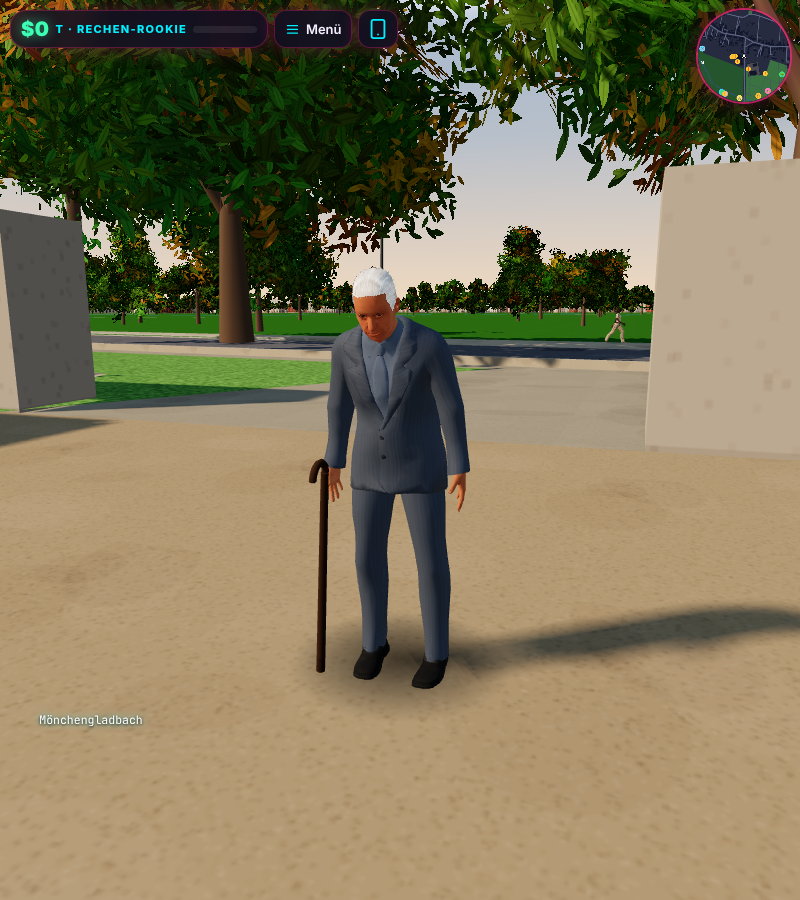
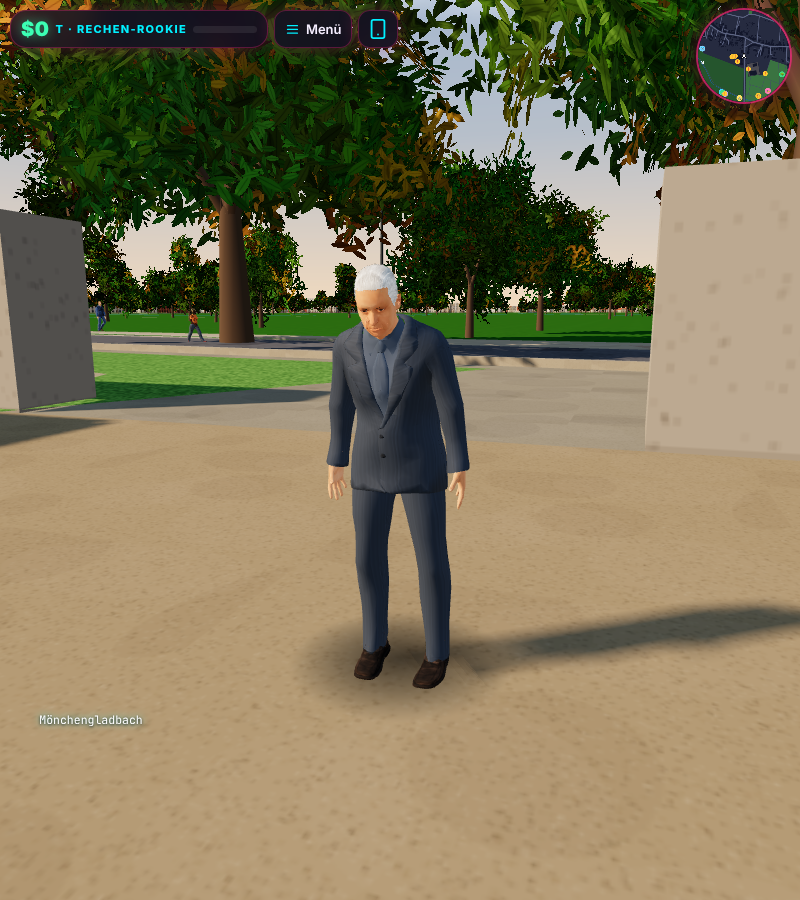
Herr Ballhorn ohne Gehstock, gebeugte Haltung bleibt
Claude-Session: https://claude.ai/code/session_01PMgt5NeoHEoWm9VEyR4L8n

diff --git a/index.html b/index.html
@@ -8543,10 +8543,8 @@ function standGlbUpgrade(){for(const S of STANDS){if(S.glb||!S.p.parent)continue
   if(act.idle){act.idle.play();act.idle.time=Math.random()*act.idle.getClip().duration}
   if(n==="Herr Ballhorn")standAlt(I);
   obj.position.set(S.x,groundY(S.x,S.y)+M.offY,S.y);obj.rotation.y=Math.PI/2-S.a;scene.add(obj);S.p.visible=false;S.glb=I}}
-/* Herr Ballhorn: alter, gebrechlicher Hausmeister – gebeugt, langsam, mit Gehstock */
+/* Herr Ballhorn: alter, gebrechlicher Hausmeister – gebeugt, langsam (ohne Gehstock) */
 function standAlt(I){I.mixer.timeScale=.65;I.alt=[["Spine",.16],["Spine1",.12],["Spine2",.08],["Neck",.14]].map(([n,a])=>[I.obj.getObjectByName(n),a]).filter(b=>b[0]);
-  const g=new THREE.CylinderGeometry(.016,.02,.9,8);g.translate(0,.45,0);const m=new THREE.Mesh(g,new THREE.MeshLambertMaterial({color:new THREE.Color(0x3b2a1e).convertSRGBToLinear()}));m.position.set(-.3,0,.16);m.rotation.set(.12,0,-.1);m.castShadow=true;
-  const k=new THREE.Mesh(new THREE.TorusGeometry(.055,.014,6,12,Math.PI),m.material);k.position.set(0,.9,.05);k.rotation.y=Math.PI/2;m.add(k);I.obj.add(m);
   // Hausmeisterkittel statt Anzug (Jacke grau entsättigt, graublau getönt), ohne Hut – graues Haar sichtbar
   I.obj.traverse(o=>{if(!o.isMesh)return;const mt=o.material,nm=(o.userData.srcMat||mt).name||"";
     if(/^Hut$/i.test(nm)){o.visible=false;return}

diff --git a/pythagoras-city.html b/pythagoras-city.html
@@ -8538,10 +8538,8 @@ function standGlbUpgrade(){for(const S of STANDS){if(S.glb||!S.p.parent)continue
   if(act.idle){act.idle.play();act.idle.time=Math.random()*act.idle.getClip().duration}
   if(n==="Herr Ballhorn")standAlt(I);
   obj.position.set(S.x,groundY(S.x,S.y)+M.offY,S.y);obj.rotation.y=Math.PI/2-S.a;scene.add(obj);S.p.visible=false;S.glb=I}}
-/* Herr Ballhorn: alter, gebrechlicher Hausmeister – gebeugt, langsam, mit Gehstock */
+/* Herr Ballhorn: alter, gebrechlicher Hausmeister – gebeugt, langsam (ohne Gehstock) */
 function standAlt(I){I.mixer.timeScale=.65;I.alt=[["Spine",.16],["Spine1",.12],["Spine2",.08],["Neck",.14]].map(([n,a])=>[I.obj.getObjectByName(n),a]).filter(b=>b[0]);
-  const g=new THREE.CylinderGeometry(.016,.02,.9,8);g.translate(0,.45,0);const m=new THREE.Mesh(g,new THREE.MeshLambertMaterial({color:new THREE.Color(0x3b2a1e).convertSRGBToLinear()}));m.position.set(-.3,0,.16);m.rotation.set(.12,0,-.1);m.castShadow=true;
-  const k=new THREE.Mesh(new THREE.TorusGeometry(.055,.014,6,12,Math.PI),m.material);k.position.set(0,.9,.05);k.rotation.y=Math.PI/2;m.add(k);I.obj.add(m);
   // Hausmeisterkittel statt Anzug (Jacke grau entsättigt, graublau getönt), ohne Hut – graues Haar sichtbar
   I.obj.traverse(o=>{if(!o.isMesh)return;const mt=o.material,nm=(o.userData.srcMat||mt).name||"";
     if(/^Hut$/i.test(nm)){o.visible=false;return}

diff --git a/tools/crowd.js b/tools/crowd.js
@@ -320,10 +320,8 @@ function standGlbUpgrade(){for(const S of STANDS){if(S.glb||!S.p.parent)continue
   if(act.idle){act.idle.play();act.idle.time=Math.random()*act.idle.getClip().duration}
   if(n==="Herr Ballhorn")standAlt(I);
   obj.position.set(S.x,groundY(S.x,S.y)+M.offY,S.y);obj.rotation.y=Math.PI/2-S.a;scene.add(obj);S.p.visible=false;S.glb=I}}
-/* Herr Ballhorn: alter, gebrechlicher Hausmeister – gebeugt, langsam, mit Gehstock */
+/* Herr Ballhorn: alter, gebrechlicher Hausmeister – gebeugt, langsam (ohne Gehstock) */
 function standAlt(I){I.mixer.timeScale=.65;I.alt=[["Spine",.16],["Spine1",.12],["Spine2",.08],["Neck",.14]].map(([n,a])=>[I.obj.getObjectByName(n),a]).filter(b=>b[0]);
-  const g=new THREE.CylinderGeometry(.016,.02,.9,8);g.translate(0,.45,0);const m=new THREE.Mesh(g,new THREE.MeshLambertMaterial({color:new THREE.Color(0x3b2a1e).convertSRGBToLinear()}));m.position.set(-.3,0,.16);m.rotation.set(.12,0,-.1);m.castShadow=true;
-  const k=new THREE.Mesh(new THREE.TorusGeometry(.055,.014,6,12,Math.PI),m.material);k.position.set(0,.9,.05);k.rotation.y=Math.PI/2;m.add(k);I.obj.add(m);
   // Hausmeisterkittel statt Anzug (Jacke grau entsättigt, graublau getönt), ohne Hut – graues Haar sichtbar
   I.obj.traverse(o=>{if(!o.isMesh)return;const mt=o.material,nm=(o.userData.srcMat||mt).name||"";
     if(/^Hut$/i.test(nm)){o.visible=false;return}

diff --git a/karte/STATUS.md b/karte/STATUS.md
@@ -239,4 +239,4 @@ Offen (Stufe 2): Kachelwechsel ohne Neuladen, feine Luftbilder für alle Bezirke
 - Kellerabgang an der Ostseite des Erweiterungsbaus (Foto): Brüstung mit Geländer am Südende offen, 14 Stufen 2,6 m nach unten, Schacht mit Kellertür und vergitterten Kellerfenstern. Boden und Hofbelag dort per Schablonenpuffer ausgespart. Sichtbar, nicht begehbar (Spiel kennt nur ebenen Boden).
 - Fix: Drehung der Schul-Ergänzungen wird jetzt an der Schule gemessen (vorher am Kartenursprung, anderer Abschnitt der Übertragung).
 - Pausenhof: Fußweg der Kartendaten (w291931419), der von Am Torfbend durch Altbau/Klassentrakt auf den Hof lief, entfernt (Passanten liefen durch die Wand); ebenso die Zufahrt w24431367, die durch das weiße Nachbarhaus führte. Regel: Fußwege ≥ 30 % in Gebäuden bzw. Zufahrten ≥ 10 % in Schulgebäuden im Umkreis von 250 m werden vor dem Aufbau des Wegenetzes entfernt.
-- Herr Ballhorn (Hausmeister, Werkhof): alter, gebrechlicher Mann statt junger Straßenbauer – Figur „Senior“, weißes Haar ohne Hut, graublauer Hausmeisterkittel, gebeugte Haltung, langsamere Bewegungen, Gehstock; Einleitung der Werkhof-Mission angepasst („seit über vierzig Jahren … auf die Leiter komme ich mit meinen Knien nicht mehr“).
+- Herr Ballhorn (Hausmeister, Werkhof): alter, gebrechlicher Mann statt junger Straßenbauer – Figur „Senior“, weißes Haar ohne Hut, graublauer Hausmeisterkittel, gebeugte Haltung, langsamere Bewegungen (ohne Gehstock); Einleitung der Werkhof-Mission angepasst („seit über vierzig Jahren … auf die Leiter komme ich mit meinen Knien nicht mehr“).
